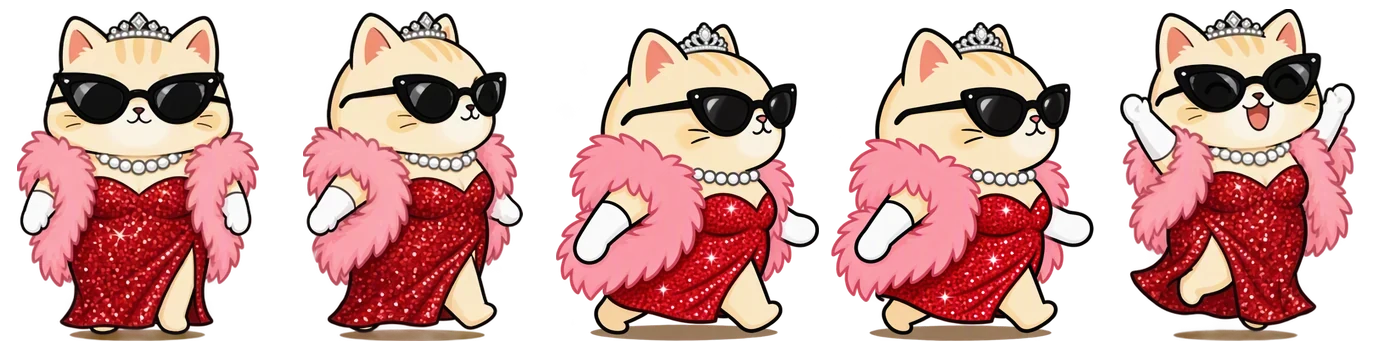
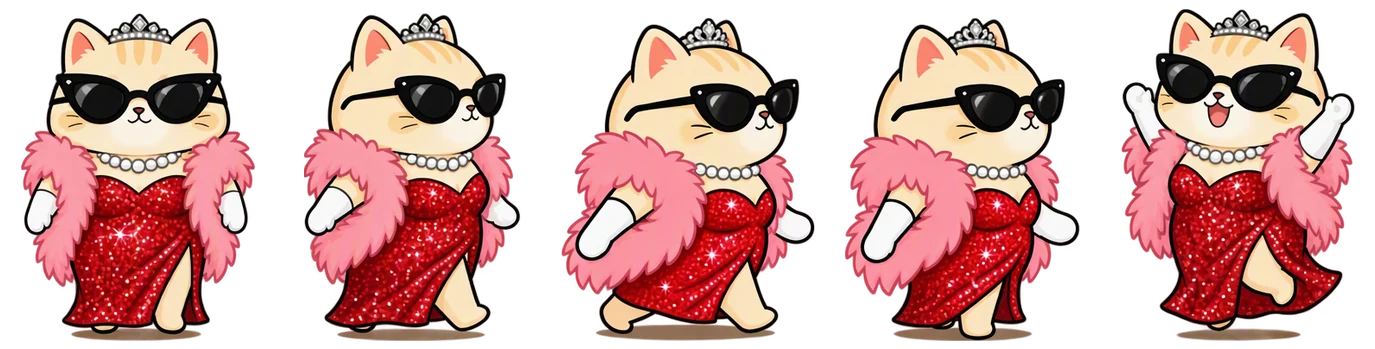
qq

diff --git a/src/coinBurst/index.ts b/src/coinBurst/index.ts
@@ -150,13 +150,16 @@ function advanceCoinBurstParticle(p: CoinBurstParticle, dt: number): void {
 // draws one coin/bill particle centered at (x, y) with the given on-screen
 // radius — a no-op (not a fallback circle) for however briefly the sprites
 // are still loading, since the caller's own particle keeps ticking either way
-// and will simply start being visible once loadCoinBurstImages resolves
+// and will simply start being visible once loadCoinBurstImages resolves.
+// base is ctx's transform for the whole batch (read once by the caller), left
+// in place again afterwards
 export function drawCoinBurstFrame(
   ctx: CanvasRenderingContext2D,
   sprite: CoinBurstSprite,
   x: number,
   y: number,
   radius: number,
+  base: DOMMatrix,
 ): void {
   const frameCanvases =
     sprite.kind === "bill" ? billFrameCanvases : coinFrameCanvases;
@@ -171,13 +174,34 @@ export function drawCoinBurstFrame(
   // frames actually read as the coin thinning, not just shrinking
   const destH = radius * 2;
   const destW = destH * (frameCanvas.width / frameCanvas.height);
-  // undone by hand instead of save()/restore(), which copy the whole canvas
-  // state for each of the hundreds of coins a big burst draws per frame
-  ctx.translate(x, y);
-  ctx.rotate(sprite.axisAngle);
+  const { a, b, c, d, e, f } = base;
+  const px = a * x + c * y + e;
+  const py = b * x + d * y + f;
+  // coins flung past the canvas edge still cost a full draw call each
+  const reach =
+    Math.max(destW, destH) * Math.max(Math.hypot(a, b), Math.hypot(c, d));
+  const { width, height } = ctx.canvas;
+  if (
+    px + reach < 0 ||
+    py + reach < 0 ||
+    px - reach > width ||
+    py - reach > height
+  )
+    return;
+  // one setTransform instead of translate/rotate and back: hundreds of coins
+  // a frame during a big crit
+  const cos = Math.cos(sprite.axisAngle);
+  const sin = Math.sin(sprite.axisAngle);
+  ctx.setTransform(
+    a * cos + c * sin,
+    b * cos + d * sin,
+    c * cos - a * sin,
+    d * cos - b * sin,
+    px,
+    py,
+  );
   ctx.drawImage(frameCanvas, -destW / 2, -destH / 2, destW, destH);
-  ctx.rotate(-sprite.axisAngle);
-  ctx.translate(-x, -y);
+  ctx.setTransform(a, b, c, d, e, f);
 }
 
 // the point on a coin's rim, as drawCoinBurstFrame draws it right now (its
@@ -254,11 +278,12 @@ export function drawActiveCoinBursts(
   const dt = clampedDtSince(lastActiveUpdateAt, now);
   lastActiveUpdateAt = now;
   pool.update(dt, advanceCoinBurstParticle);
+  const base = ctx.getTransform();
   for (const p of pool.list) {
     const t = p.life / p.maxLife;
     const radius = p.size * (1 - t * 0.3);
     ctx.globalAlpha = Math.max(0, 1 - t);
-    drawCoinBurstFrame(ctx, p, p.x, p.y, radius);
+    drawCoinBurstFrame(ctx, p, p.x, p.y, radius, base);
   }
   ctx.globalAlpha = 1;
 }

diff --git a/src/floors/coins/index.ts b/src/floors/coins/index.ts
@@ -122,6 +122,7 @@ export function drawCoins(
   // is reused for the whole run instead of re-resolved per coin
   let rectFloor: Floor | null = null;
   let rect: { left: number; top: number; width: number } | null = null;
+  const base = ctx.getTransform();
   for (const p of pool.list) {
     if ((p.homing?.group.layer ?? "world") !== layer) continue;
     if (p.floor !== rectFloor) {
@@ -162,7 +163,7 @@ export function drawCoins(
     } else {
       ctx.globalAlpha = Math.max(0, 1 - t);
     }
-    drawCoinBurstFrame(ctx, p, px, py, radius);
+    drawCoinBurstFrame(ctx, p, px, py, radius, base);
     if (p.homing) drawHangGlint(ctx, p, p.homing, px, py, radius);
   }
   ctx.globalAlpha = 1;

diff --git a/public/sw.js b/public/sw.js
@@ -4,7 +4,7 @@
 // Bump CACHE_NAME whenever this file's own strategy changes, to drop any stale cache.
 // Also bump it when shipped art is replaced in place (v6: crit icons upscaled),
 // or returning players keep seeing the old cached files.
-const CACHE_NAME = "kitty-inc-v6";
+const CACHE_NAME = "kitty-inc-v7";
 
 self.addEventListener("install", () => {
   self.skipWaiting();
